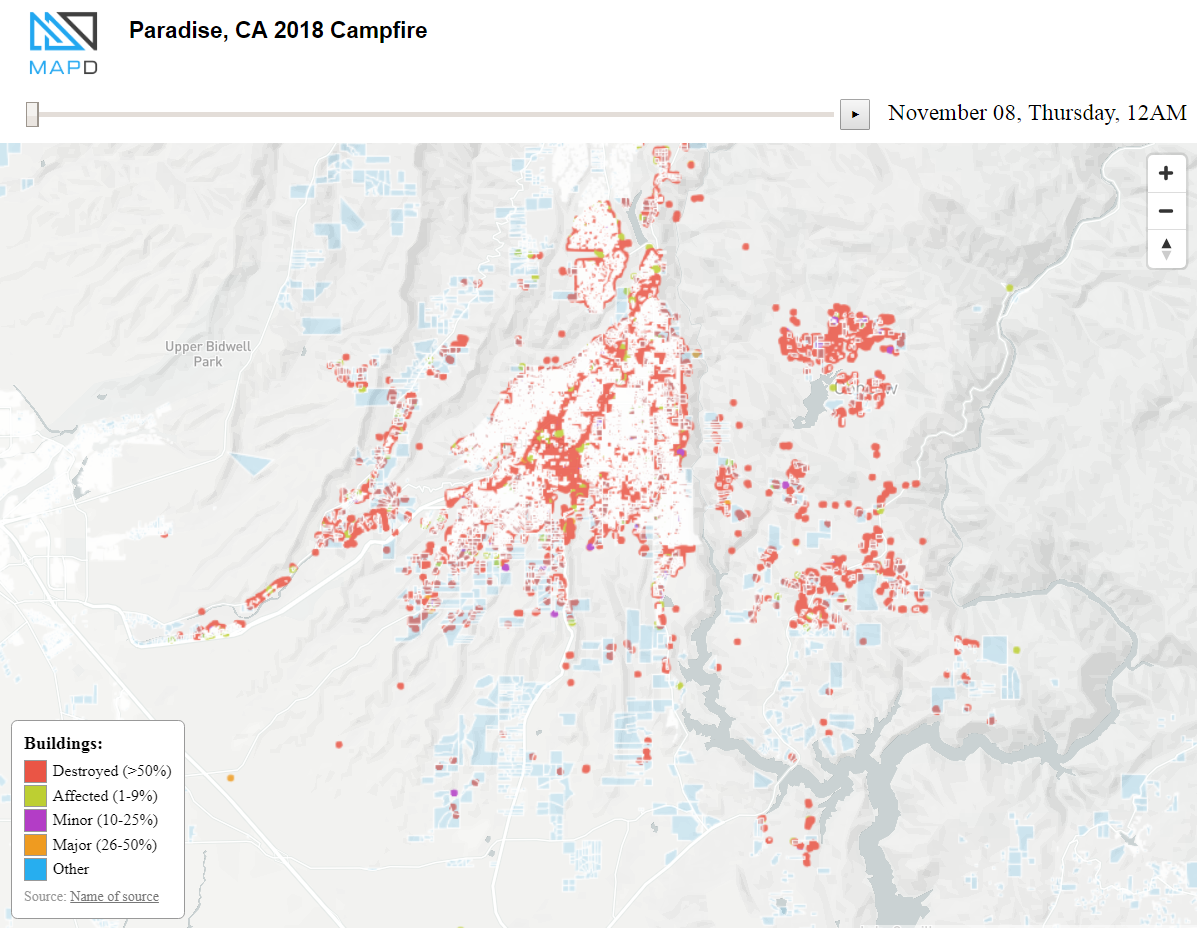
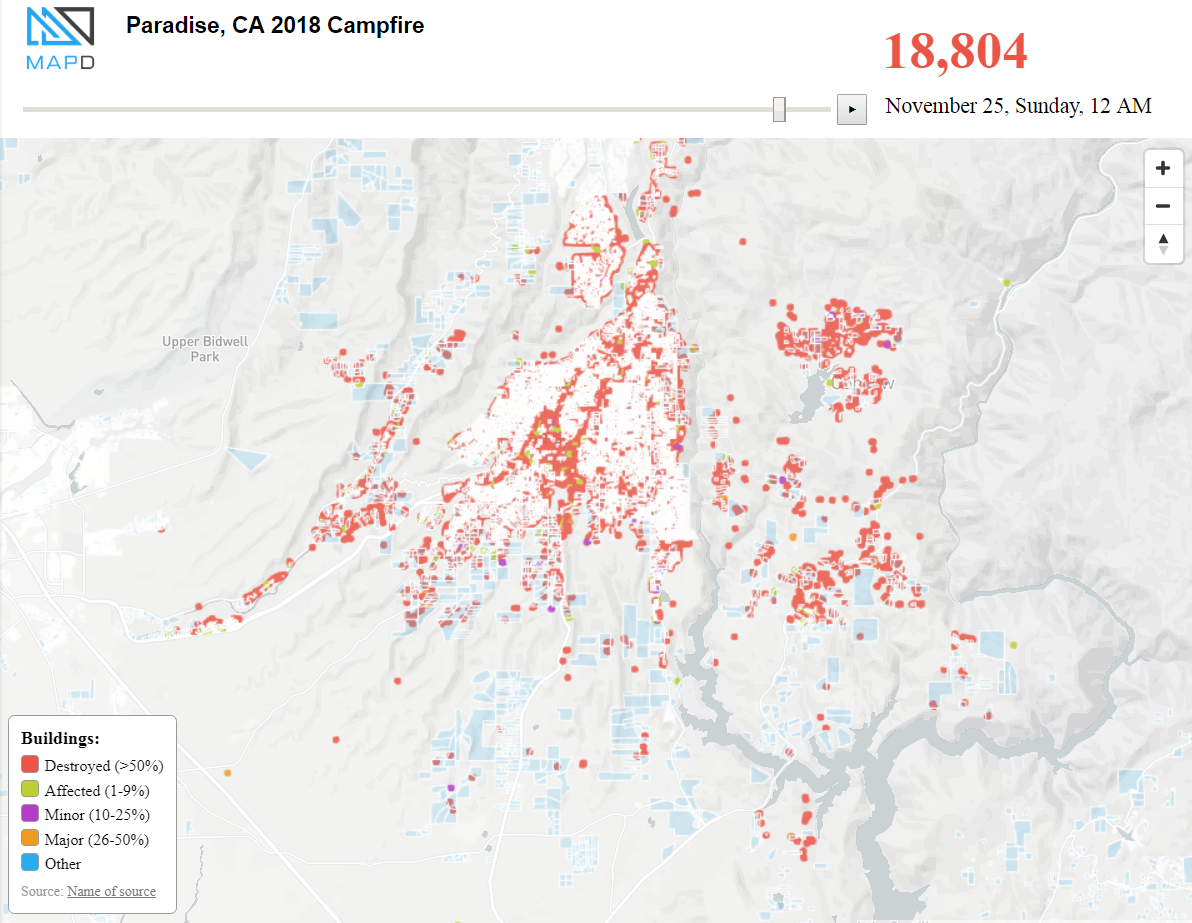
added big red counter label to header for damanged buildings count display

diff --git a/src/index.js b/src/index.js
@@ -13,6 +13,7 @@ import { initMap } from './components/map';
 import { initTimeSlider } from './components/time-slider';
 import { initTimeLabel } from './components/time-label';
 import { initPlayPauseButton } from './components/play-pause-button';
+import { initCounterLabel, updateCounterLabel } from './components/counter-label';
 
 // main app bootstrapping on content loaded
 document.addEventListener('DOMContentLoaded', main);
@@ -31,6 +32,9 @@ function main() {
       <label class="time-label"></label>
     </div>
     <div id="map"></div>
+    <div class="counter-box">
+      <label class="counter-label"></label>
+    </div>
     <div class='legend-box'>
       <div class='legend-title'>Buildings:</div>
       <div class='legend-scale'>
@@ -50,6 +54,7 @@ function main() {
   initTimeSlider();
   initTimeLabel();
   initPlayPauseButton();
+  initCounterLabel();
 
   // connect to the mapd backend
   getConnection(serverInfo)

diff --git a/src/styles.css b/src/styles.css
@@ -42,7 +42,7 @@ body {
   width: 100%;
 }
 
-/* time-controls css */
+/* time-controls styles */
 .time-controls {
   display: flex;
   align-items: flex-start;
@@ -64,6 +64,22 @@ body {
   width: 360px;
   font-size: 13pt;
 }
+
+/* counter-conrols styles */
+.counter-box {
+  width: 230px;
+  position: absolute;
+  top: 20px;
+  right: 20px;
+  text-align: left;
+}
+
+.counter-label {
+  font-size: 32pt;
+  font-weight: bold;
+  color: rgba(234,85,69,1);
+}
+
 
 /* legend-box styles */
 .legend-box {

diff --git a/src/components/counter-label.js b/src/components/counter-label.js
@@ -1,0 +1,12 @@
+let counterLabel = null;
+
+export function initCounterLabel() {
+  counterLabel = document.querySelector('label.counter-label');
+  counterLabel.innerHTML = '18,804';
+}
+
+export function updateCounterLabel(count) {
+  counterLabel.innerHTML = Number(count).toLocaleString();
+}
+
+export default counterLabel;
